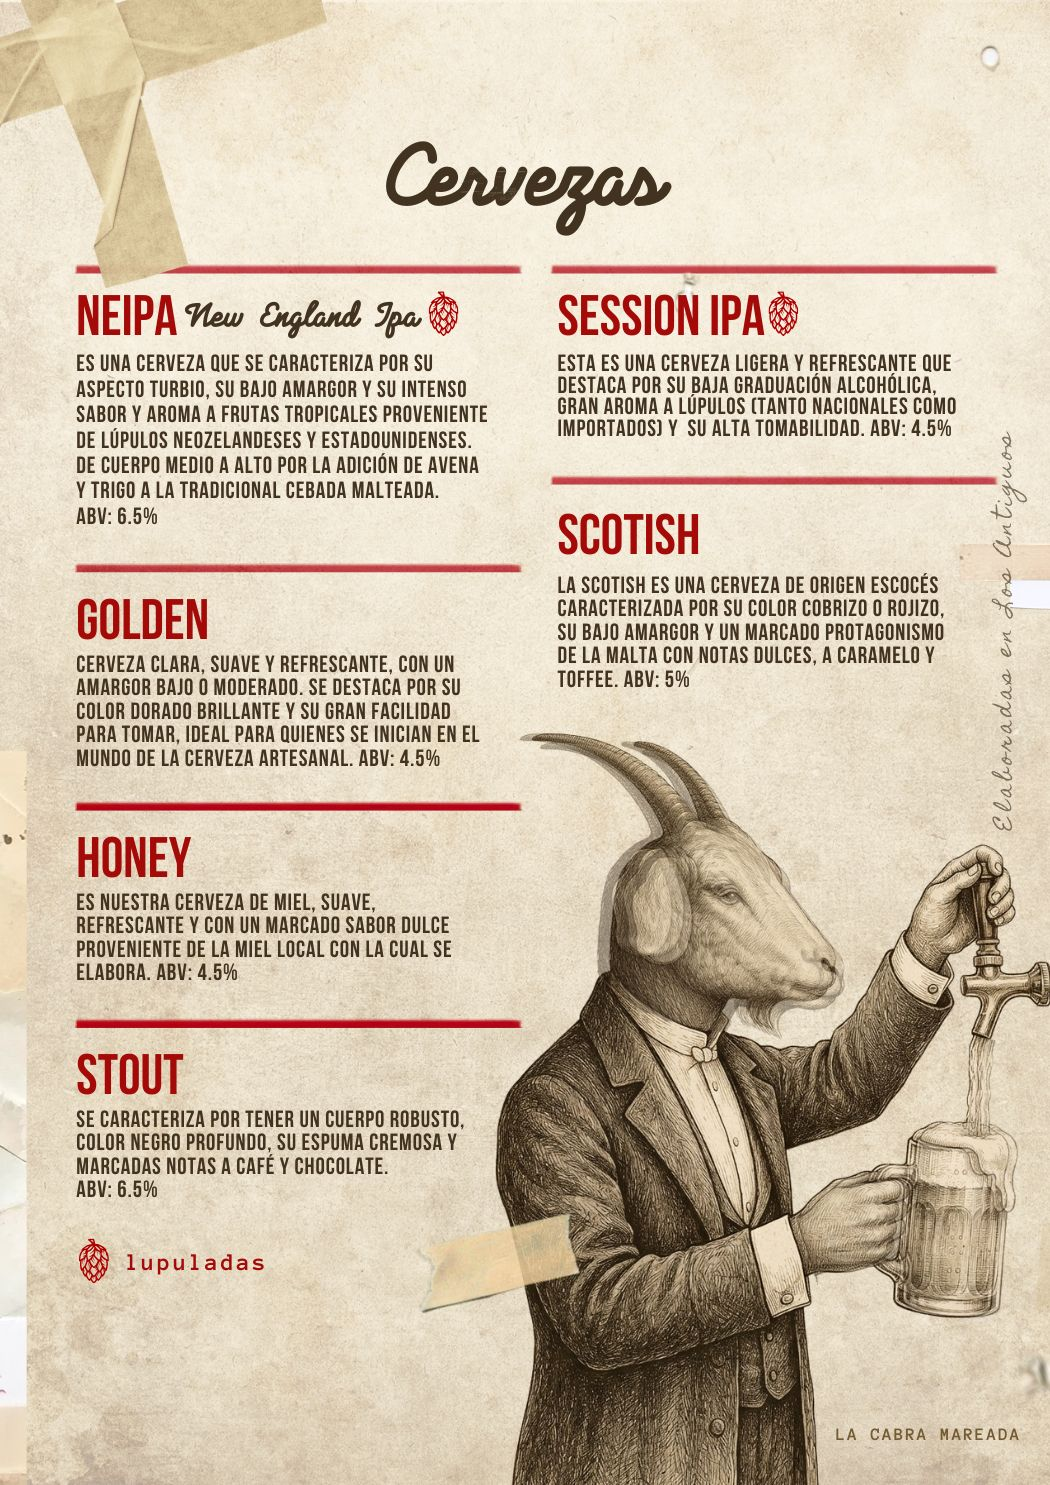
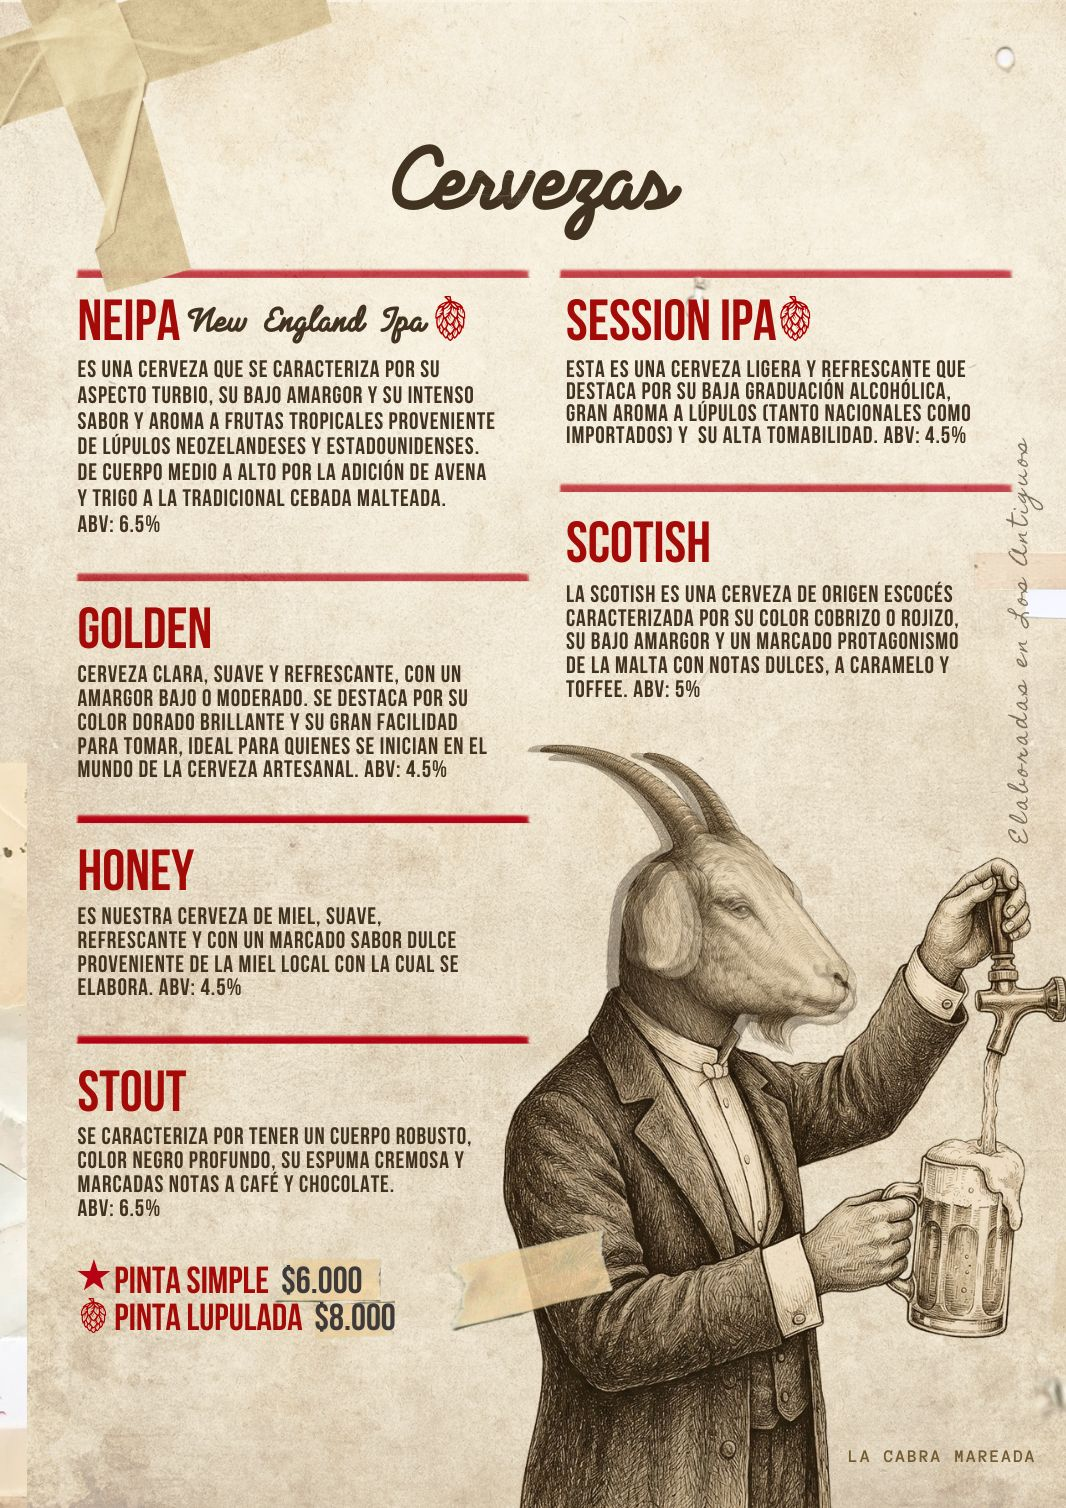
Actualizar tipografia icono y carta de cervezas

diff --git a/css/style.css b/css/style.css
@@ -230,14 +230,13 @@ a {
 
     color: rgba(48, 35, 20, 0.78);
 
-    font-family: "Arial Narrow", Arial, Helvetica, sans-serif;
-    font-size: clamp(9px, 1vw, 12px);
-    font-weight: 700;
+    font-family: "Homemade Apple", cursive;
+    font-size: clamp(12px, 1.7vw, 18px);
+    font-weight: 400;
     line-height: 1.2;
-    letter-spacing: 0.14em;
+    letter-spacing: 0.02em;
 
     text-align: center;
-    text-transform: uppercase;
 
     transform: translateX(-50%);
 }
@@ -250,8 +249,8 @@ posición y mantiene una proporción similar a la del celular.
     .identidad-geografica {
         top: 1%;
 
-        font-size: clamp(16px, 1.7vw, 22px);
-        letter-spacing: 0.11em;
+        font-size: clamp(18px, 2.1vw, 28px);
+        letter-spacing: 0.02em;
     }
 }
 
@@ -293,7 +292,7 @@ desaparece, dejando únicamente la identificación del lugar.
 */
 @media (min-width: 701px) {
     .aviso-categorias {
-        top: calc(1% + 38px);
+        top: calc(1% + 42px);
     }
 }
 

diff --git a/index.html b/index.html
@@ -13,7 +13,13 @@
 
     <title>La Cabra Mareada | Menú</title>
 
-    <link rel="stylesheet" href="css/style.css?v=9">
+    <link rel="icon" type="image/png" href="img/icono.png">
+    <link rel="preconnect" href="https://fonts.googleapis.com">
+    <link rel="preconnect" href="https://fonts.gstatic.com" crossorigin>
+    <link
+        rel="stylesheet"
+        href="https://fonts.googleapis.com/css2?family=Homemade+Apple&amp;display=swap">
+    <link rel="stylesheet" href="css/style.css?v=10">
 </head>
 
 <body class="pagina-portada">

diff --git a/pizzas.html b/pizzas.html
@@ -13,7 +13,8 @@
 
     <title>Pizzas y Panchos | La Cabra Mareada</title>
 
-    <link rel="stylesheet" href="css/style.css?v=9">
+    <link rel="icon" type="image/png" href="img/icono.png">
+    <link rel="stylesheet" href="css/style.css?v=10">
 </head>
 
 <body class="pagina-carta pagina-pizzas">

diff --git a/hamburguesas.html b/hamburguesas.html
@@ -13,7 +13,8 @@
 
     <title>Hamburguesas | La Cabra Mareada</title>
 
-    <link rel="stylesheet" href="css/style.css?v=9">
+    <link rel="icon" type="image/png" href="img/icono.png">
+    <link rel="stylesheet" href="css/style.css?v=10">
 </head>
 
 <body class="pagina-carta">

diff --git a/cervezas.html b/cervezas.html
@@ -13,7 +13,8 @@
 
     <title>Cervezas | La Cabra Mareada</title>
 
-    <link rel="stylesheet" href="css/style.css?v=9">
+    <link rel="icon" type="image/png" href="img/icono.png">
+    <link rel="stylesheet" href="css/style.css?v=10">
 </head>
 
 <body class="pagina-carta">

diff --git a/papas.html b/papas.html
@@ -13,7 +13,8 @@
 
     <title>Papas | La Cabra Mareada</title>
 
-    <link rel="stylesheet" href="css/style.css?v=9">
+    <link rel="icon" type="image/png" href="img/icono.png">
+    <link rel="stylesheet" href="css/style.css?v=10">
 </head>
 
 <body class="pagina-carta">
